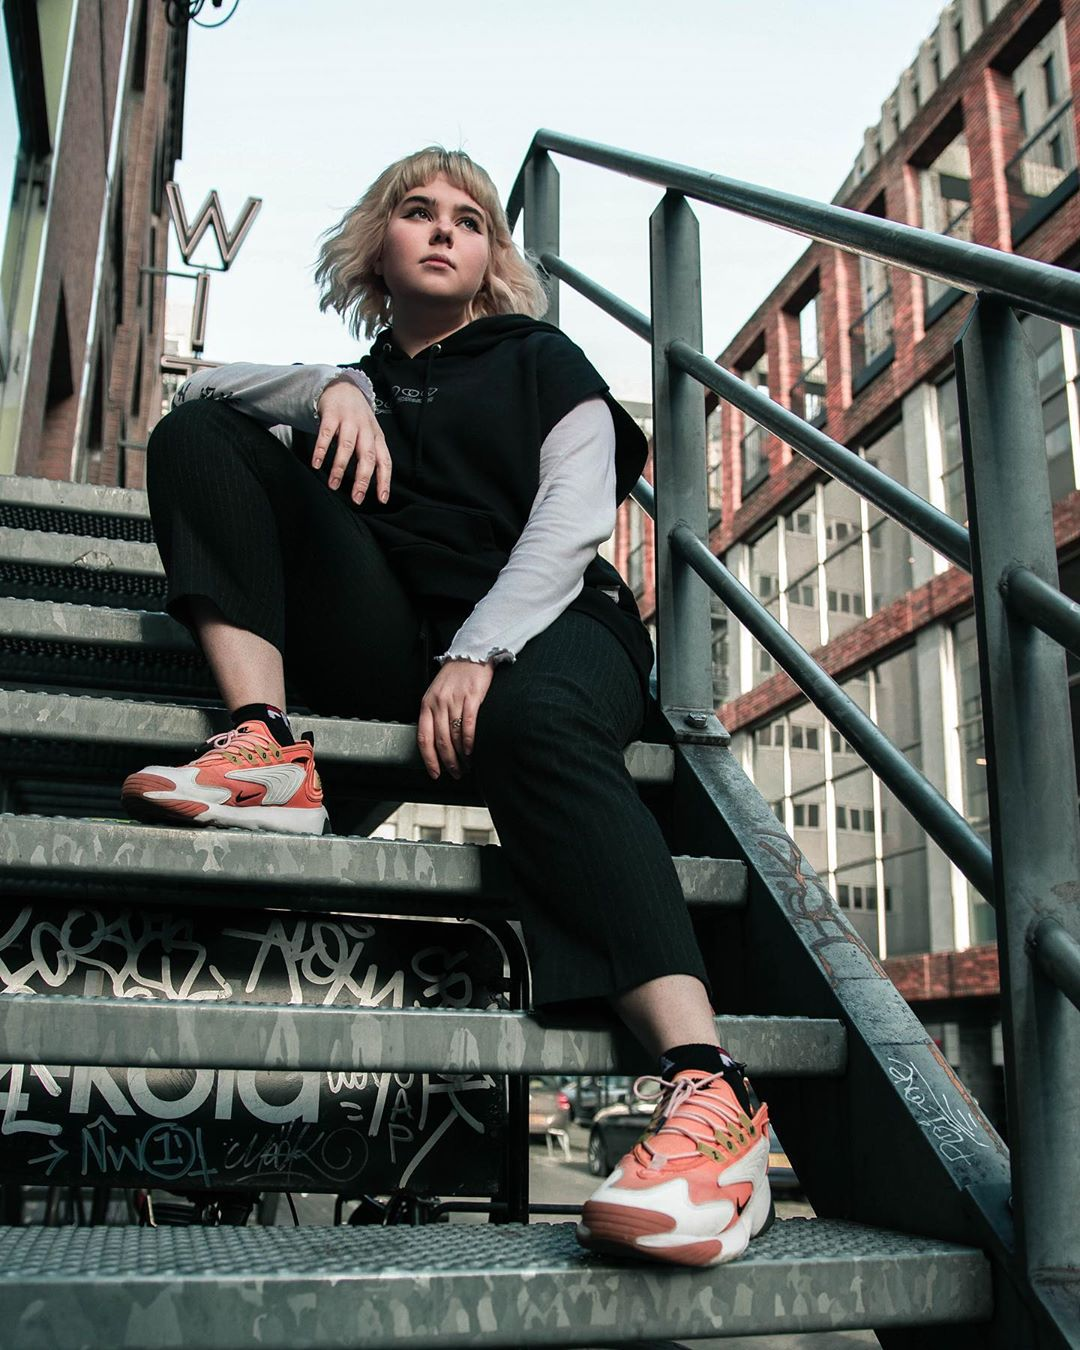
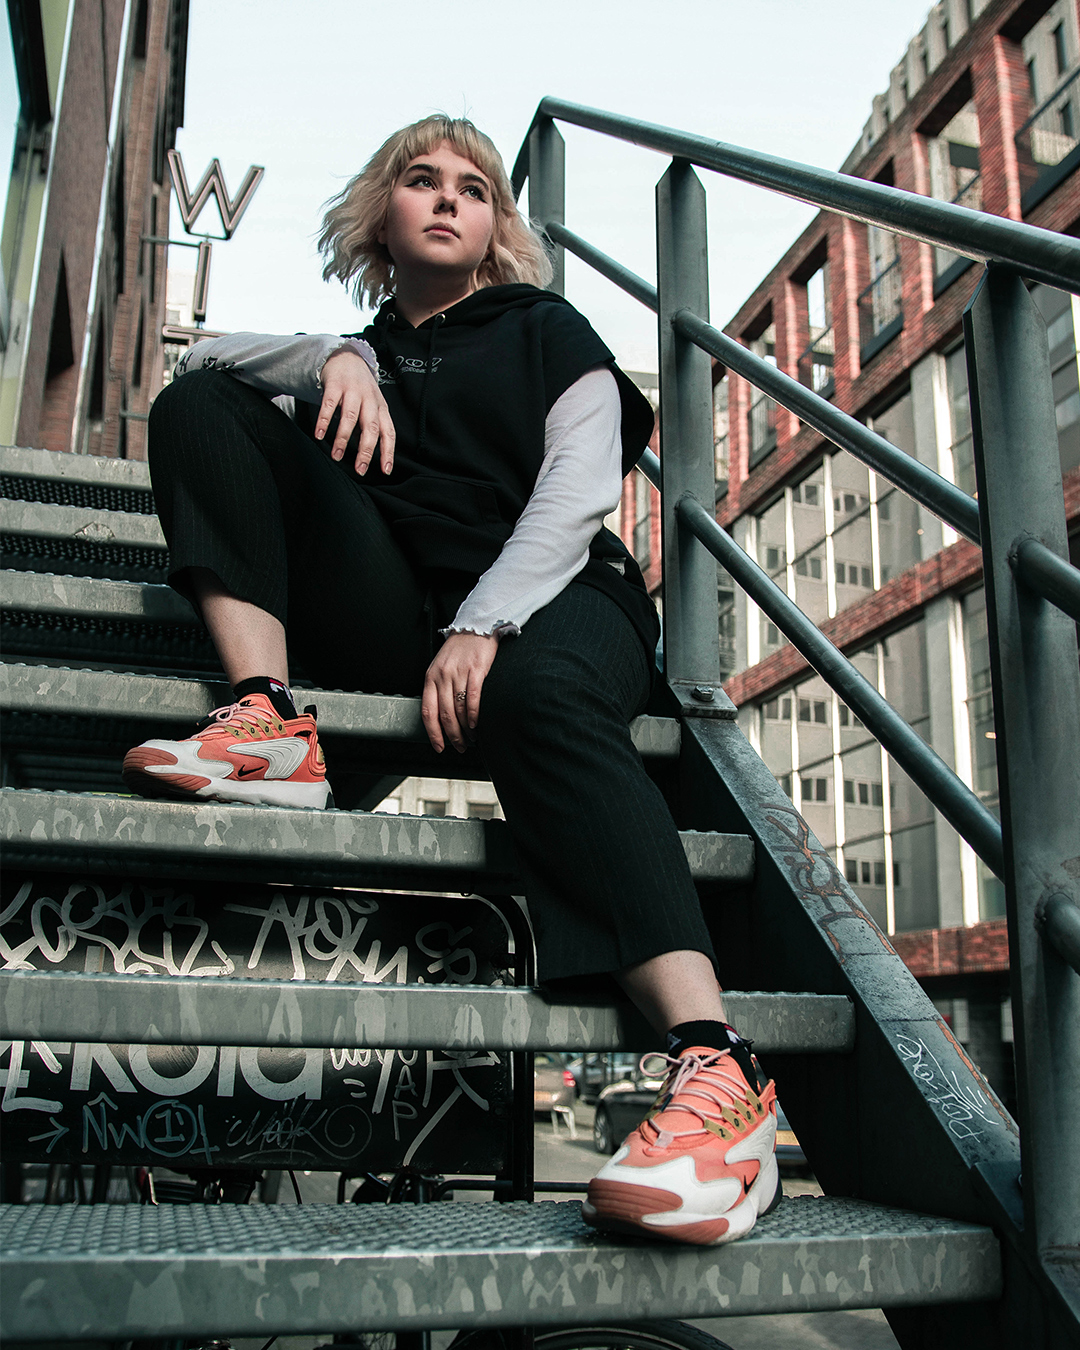
updated picture

diff --git a/css/styles_placeholder.css b/css/styles_placeholder.css
@@ -110,7 +110,7 @@ header .nav-link {
 
 #lookofday-img {
 
-	background-image: url("../images/LookOfTheDay.jpg");
+	background-image: url("../images/lookoftheday2.jpg");
 	background-size: cover;
 	margin: 100px;
 	max-width: 600px;
